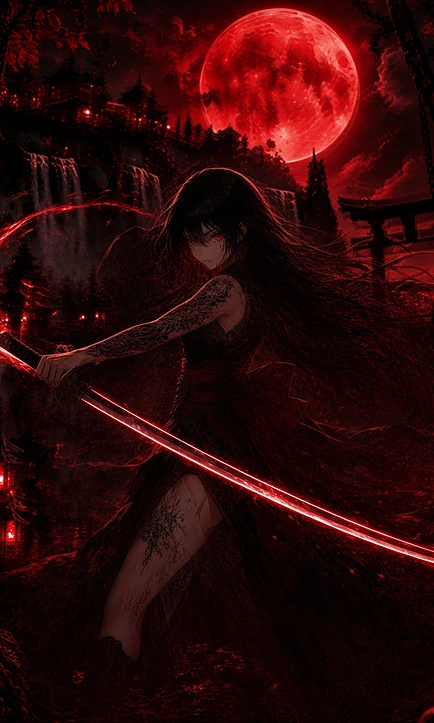
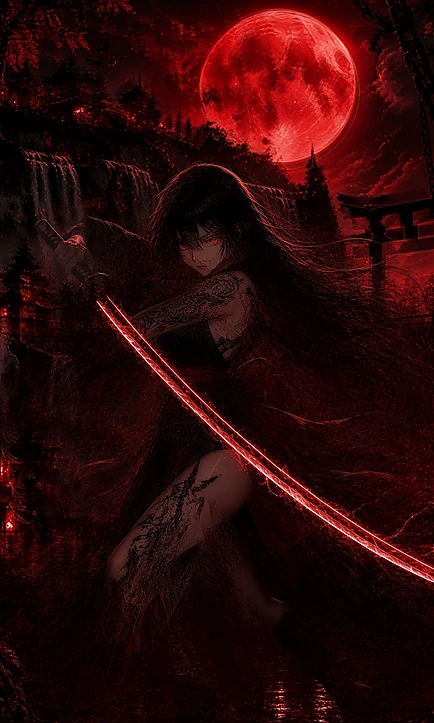
Update Music_Z site

diff --git a/src/lib/side-samurai.ts b/src/lib/side-samurai.ts
@@ -1,6 +1,5 @@
 /**
- * Sidebar samurai — pose changes on tempo grid (not noisy kick onsets).
- * Ping-pong crossfade; step every 1–2 beats depending on BPM.
+ * Sidebar samurai — tempo-grid poses with underlay crossfade (no blink).
  */
 
 export class SideSamurai {
@@ -10,6 +9,7 @@ export class SideSamurai {
   private dir = 1;
   private playing = false;
   private lastStepAt = 0;
+  private swapTimer = 0;
 
   bind(root: HTMLElement): void {
     this.stage = root.querySelector(".side-fx-stage");
@@ -22,6 +22,8 @@ export class SideSamurai {
     this.dir = 1;
     this.index = 0;
     this.lastStepAt = 0;
+    window.clearTimeout(this.swapTimer);
+    this.swapTimer = 0;
     if (!on) {
       this.clear();
       return;
@@ -30,20 +32,22 @@ export class SideSamurai {
   }
 
   /** Called on each quarter-note from BeatMotion grid. */
-  onBeat(beatIndex: number, bpm: number): void {
+  onBeat(_beatIndex: number, bpm: number): void {
     if (!this.playing || this.frames.length < 2) return;
 
-    // More frames → step every beat for fluid dance; only skip on very fast tempos
-    const every = bpm >= 132 ? 2 : 1;
-    if (beatIndex % every !== 0) return;
+    const every = bpm >= 140 ? 2 : 1;
+    if (_beatIndex % every !== 0) return;
 
     const now = performance.now();
-    if (now - this.lastStepAt < 180) return;
+    // Wait for crossfade to settle a bit so we don't stack blinks
+    if (now - this.lastStepAt < 220) return;
     this.lastStepAt = now;
     this.step();
   }
 
   private clear(): void {
+    window.clearTimeout(this.swapTimer);
+    this.swapTimer = 0;
     this.frames.forEach((el) => el.classList.remove("is-on", "is-exit"));
   }
 
@@ -64,24 +68,29 @@ export class SideSamurai {
   private show(i: number, instant: boolean): void {
     const prev = this.index;
     this.index = Math.max(0, Math.min(this.frames.length - 1, i));
-    this.frames.forEach((el, idx) => {
-      const on = idx === this.index;
-      if (instant) {
-        el.classList.toggle("is-on", on);
+    const nextEl = this.frames[this.index];
+    if (!nextEl) return;
+
+    if (instant || prev === this.index) {
+      this.frames.forEach((el, idx) => {
+        el.classList.toggle("is-on", idx === this.index);
         el.classList.remove("is-exit");
-        return;
-      }
-      if (idx === prev && prev !== this.index) {
-        el.classList.add("is-exit");
-        el.classList.remove("is-on");
-        window.setTimeout(() => el.classList.remove("is-exit"), 320);
-      } else if (on) {
-        el.classList.add("is-on");
-        el.classList.remove("is-exit");
-      } else {
-        el.classList.remove("is-on");
-      }
-    });
+      });
+      return;
+    }
+
+    // Underlay crossfade: keep previous fully visible underneath,
+    // fade new on top, then drop previous — never a dark gap/flash.
+    window.clearTimeout(this.swapTimer);
+    nextEl.classList.add("is-on");
+    nextEl.classList.remove("is-exit");
+    this.swapTimer = window.setTimeout(() => {
+      this.frames.forEach((el, idx) => {
+        if (idx !== this.index) el.classList.remove("is-on", "is-exit");
+      });
+      this.swapTimer = 0;
+    }, 380);
+
     this.stage?.style.setProperty("--samurai-pose", String(this.index));
   }
 }

diff --git a/src/styles.css b/src/styles.css
@@ -231,16 +231,10 @@ button img, a img {
 }
 .side-fx-stage {
   position: absolute;
-  inset: -4%;
+  inset: -2%;
   transform-origin: 50% 58%;
-  will-change: transform, filter;
-  transform:
-    translate3d(0, calc(var(--kick, 0) * -2.5px), 0)
-    scale(calc(1.04 + var(--kick, 0) * 0.035 + var(--bass, 0) * 0.012));
-  filter:
-    brightness(calc(0.92 + var(--kick, 0) * 0.18 + var(--energy, 0) * 0.08))
-    saturate(calc(1 + var(--energy, 0) * 0.15));
-  transition: filter 0.08s linear;
+  transform: scale(1.03);
+  filter: none;
 }
 .side-fx-frame {
   position: absolute;
@@ -251,21 +245,16 @@ button img, a img {
   object-fit: cover;
   object-position: 52% 28%;
   opacity: 0;
-  transition: opacity 0.28s ease-in-out;
+  transition: opacity 0.38s ease;
   pointer-events: none;
   -webkit-user-drag: none;
   user-select: none;
   will-change: opacity;
+  z-index: 1;
 }
 .side-fx-frame.is-on {
   opacity: 1;
   z-index: 2;
-  transition: opacity 0.22s ease-in;
-}
-.side-fx-frame.is-exit {
-  opacity: 0;
-  z-index: 1;
-  transition: opacity 0.3s ease-out;
 }
 .side-fx-veil {
   position: absolute;
@@ -274,8 +263,7 @@ button img, a img {
   background:
     linear-gradient(180deg, rgba(0, 0, 0, 0.48) 0%, rgba(0, 0, 0, 0.14) 38%, rgba(0, 0, 0, 0.55) 100%),
     linear-gradient(90deg, rgba(0, 0, 0, 0.14), transparent 42%, transparent 58%, rgba(0, 0, 0, 0.16));
-  opacity: calc(0.92 - var(--kick, 0) * 0.18);
-  transition: opacity 0.1s linear;
+  opacity: 0.9;
 }
 #app.is-playing .side-fx {
   opacity: 1;

diff --git a/src/main.ts b/src/main.ts
@@ -76,15 +76,7 @@ function warmCharacterCache(): void {
     "bg-japan-lit.webp",
     "bg-japan-dim.jpg",
     "bg-japan-lit.jpg",
-    "side-samurai/01.webp",
-    "side-samurai/02.webp",
-    "side-samurai/03.webp",
-    "side-samurai/04.webp",
-    "side-samurai/05.webp",
-    "side-samurai/06.webp",
-    "side-samurai/07.webp",
-    "side-samurai/08.webp",
-    "side-samurai/09.webp",
+    ...Array.from({ length: 17 }, (_, i) => `side-samurai/${String(i + 1).padStart(2, "0")}.webp`),
   ]);
 }
 if (typeof requestIdleCallback === "function") {
@@ -186,7 +178,7 @@ function render(tracks: Track[]): void {
       <aside class="side" data-side>
         <div class="side-fx" aria-hidden="true">
           <div class="side-fx-stage">
-            ${[1, 2, 3, 4, 5, 6, 7, 8, 9]
+            ${Array.from({ length: 17 }, (_, i) => i + 1)
               .map(
                 (n) => `
               <img

diff --git a/public/sw.js b/public/sw.js
@@ -40,6 +40,14 @@ const PRECACHE = [
   "./side-samurai/07.webp",
   "./side-samurai/08.webp",
   "./side-samurai/09.webp",
+  "./side-samurai/10.webp",
+  "./side-samurai/11.webp",
+  "./side-samurai/12.webp",
+  "./side-samurai/13.webp",
+  "./side-samurai/14.webp",
+  "./side-samurai/15.webp",
+  "./side-samurai/16.webp",
+  "./side-samurai/17.webp",
 ];
 
 self.addEventListener("install", (event) => {
@@ -164,7 +172,7 @@ self.addEventListener("fetch", (event) => {
     /\/character\.png$/i.test(path) ||
     /\/hero-banner\.png$/i.test(path) ||
     /\/bg-japan-(dim|lit)\.(jpg|webp)$/i.test(path) ||
-    /\/side-samurai\/0[1-9]\.webp$/i.test(path) ||
+    /\/side-samurai\/\d{2}\.webp$/i.test(path) ||
     /\/logo\.png$/i.test(path) ||
     /\/favicon\.(svg|png)$/i.test(path)
   ) {
